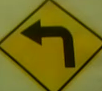
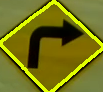
sign tracker working with comments

diff --git a/scripts/match_points.py b/scripts/match_points.py
@@ -1,7 +1,5 @@
 #!/usr/bin/env python
 
-""" A demo that shows how keypoint matches work using SIFT """
-
 import cv2
 import pickle
 import numpy as np
@@ -11,33 +9,76 @@ from scipy import stats
 class KeyPointMatcher(object):
 	""" KeyPointMatcher shows the basics of interest point detection,
 	    descriptor extraction, and descriptor matching in OpenCV """
-	def __init__(self, im1_file, robot_file):
+	def __init__(self, robot_file):
 		rospack = rospkg.RosPack()
-		self.im1_file = rospack.get_path('computer_vision') + '/images/' + im1_file
-		# self.im2_file = rospack.get_path('computer_vision') + '/images/' + robot_file
+
+		# loads the stock images for left, right and uturn signs 
+		self.left_turn = rospack.get_path('computer_vision') + '/images/left_turn_real.png'
+		self.right_turn = rospack.get_path('computer_vision') + '/images/right_turn_real.png'
+		self.u_turn = rospack.get_path('computer_vision') + '/images/uturn_real.png'
 
 		self.robot_file = robot_file
 		descriptor_name = "SIFT"
+
+		self.left_sum = 0
+		self.right_sum = 0
+		self.u_sum = 0
+
+		self.threshold_sum = 20
 
 		self.detector = cv2.FeatureDetector_create(descriptor_name)
 		self.extractor = cv2.DescriptorExtractor_create(descriptor_name)
 		self.matcher = cv2.BFMatcher()
 		self.im = None
 
-
 		self.corner_threshold = 0.01
 		self.ratio_threshold = .6
 
-	def compute_matches(self):
-		""" reads in two image files and computes possible matches between them using SIFT """
-		im1 = cv2.imread(self.im1_file)
-		# im2 = cv2.imread(self.im2_file)
+	def set_robot_file(self, robot_file):
+		""" Sets the image read from the neato's camera """
+		self.robot_file = robot_file
+
+	def compare_signs(self):
+		""" computes the running sum of each sign value """
+		left_turn = cv2.imread(self.left_turn)
+		right_turn = cv2.imread(self.right_turn)
+		u_turn = cv2.imread(self.u_turn)
+
+		self.left_sum += self.compute_matches(left_turn)
+		self.right_sum += self.compute_matches(right_turn)
+		self.u_sum += self.compute_matches(u_turn)
+
+		return self.determine_sign()
+
+	def determine_sign(self):
+		""" determines signs by looking at the running sum """
+
+		# since there are some errors when identifying with sift we take the running sum and 
+		# returns the sign that pass the threshold_sum the quickest
+		if self.left_sum > self.threshold_sum:
+			self.reset_sums()
+			return "left"
+		if self.right_sum > self.threshold_sum:
+			self.reset_sums()
+			return "right"
+		if self.u_sum > self.threshold_sum:
+			self.reset_sums()
+			return "u_turn"
+		return "None"
+
+	def reset_sums(self):
+		self.left_sum = 0
+		self.right_sum = 0
+		self.u_sum = 0
+
+	def compute_matches(self, im):
+		""" reads in a stock image file and the robot image and computes possible matches between them using SIFT """
 
 		im2 = self.robot_file
 
+		# resize the stock pictures to the robot image's size
 		height, width = im2.shape[:2]
-		im1 = cv2.resize(im1,(width, height), interpolation = cv2.INTER_CUBIC)
-
+		im1 = cv2.resize(im,(width, height), interpolation = cv2.INTER_CUBIC)
 
 		im1_bw = cv2.cvtColor(im1,cv2.COLOR_BGR2GRAY)
 		im2_bw = cv2.cvtColor(im2,cv2.COLOR_BGR2GRAY)
@@ -74,54 +115,12 @@ class KeyPointMatcher(object):
 			y1.append(pts1[i, 1])
 			y2.append(pts2[i, 1])
 
-		print "length", pts1.shape[0]
-
+		# use linear regression to determine how closely the two images match each other
 		slope1, intercept1, r_value1, p_value1, std_err1 = stats.linregress(x1,x2)
 		slope2, intercept2, r_value2, p_value2, std_err2 = stats.linregress(y1,y2)
 
-		return r_value1**2, r_value2**2
-		# print r_value1**2, r_value2**2
-
-		# self.im = np.array(np.hstack((im1,im2)))
-
-		# plot the points
-		for i in range(pts1.shape[0]):
-			cv2.circle(self.im,(int(pts1[i,0]),int(pts1[i,1])),2,(255,0,0),2)
-			cv2.circle(self.im,(int(pts2[i,0]+im1.shape[1]),int(pts2[i,1])),2,(255,0,0),2)
-			cv2.line(self.im,(int(pts1[i,0]),int(pts1[i,1])),(int(pts2[i,0]+im1.shape[1]),int(pts2[i,1])),(0,255,0))
-
-def set_corner_threshold(thresh):
-	""" Sets the threshold to consider an interest point a corner.  The higher the value
-		the more the point must look like a corner to be considered """
-	global matcher
-	matcher.corner_threshold = thresh/1000.0
-
-def set_ratio_threshold(ratio):
-	""" Sets the ratio of the nearest to the second nearest neighbor to consider the match a good one """
-	global matcher
-	matcher.ratio_threshold = ratio/100.0
-
-def mouse_event(event,x,y,flag,im):
-	""" Handles mouse events.  In this case when the user clicks, the matches are recomputed """
-	if event == cv2.EVENT_FLAG_LBUTTON:
-		matcher.compute_matches()
-
-if __name__ == '__main__':
-	# descriptor can be: SIFT, SURF, BRIEF, BRISK, ORB, FREAK
-
-	# matcher = KeyPointMatcher('left_turn.png', out,'SIFT')
-	matcher = KeyPointMatcher('right_turn_real.png', 'right_turn_check.png')
-
-	# setup a basic UI
-	cv2.namedWindow('UI')
-	cv2.createTrackbar('Corner Threshold', 'UI', 0, 100, set_corner_threshold)
-	cv2.createTrackbar('Ratio Threshold', 'UI', 100, 100, set_ratio_threshold)
-	matcher.compute_matches()
-
-	cv2.imshow("MYWIN",matcher.im)
-	cv2.setMouseCallback("MYWIN",mouse_event,matcher)
-
-	while True:
-		cv2.imshow("MYWIN",matcher.im)
-		cv2.waitKey(50)
-	cv2.destroyAllWindows()
+		# r^2 is a constant that represents the strength of the correlation
+		# return 1 for match when both of the r^2 value is greater and .95
+		if (r_value1**2 > .95 and r_value2**2 > .95):
+			return 1
+		return 0

diff --git a/scripts/tracker.py b/scripts/tracker.py
@@ -1,8 +1,5 @@
 #!/usr/bin/env python
 
-""" This is a script that walks through some of the basics of working with images
-    with opencv in ROS. """
-
 import rospy
 from sensor_msgs.msg import Image
 from copy import deepcopy
@@ -13,23 +10,31 @@ import cv2
 import numpy as np
 from geometry_msgs.msg import Twist, Vector3
 
-class Tracker(object):
-    """ The Tracker is a Python object that encompasses a ROS node 
-        that can process images from the camera and search for a ball within.
-        The node will issue motor commands to move forward while keeping
-        the ball in the center of the camera's field of view. """
+class SignTracker(object):
+    """ SignTracker can find a sign using sign_detector and determine if the sign is a left turn, 
+    right turn, or a u turn using a matcher. Then SignTracker can move accordingly depending oon the sign """
 
     def __init__(self, image_topic):
-        """ Initialize the ball tracker """
-        rospy.init_node('ball_tracker')
+        """ Initialize the sign tracker """
+        rospy.init_node('sign_tracker')
         self.cv_image = None                        # the latest image from the camera
         self.bridge = CvBridge()                    # used to convert ROS messages to OpenCV
+
+        # matcher needs to be created but since the cropped image is not yet available initialize the matcher with None
+        self.matcher = KeyPointMatcher(None)
 
         self.maxContour = 0
         self.maxCArea = 0
         self.cropped = 0
 
+        # counter to properly perform the turns for the correct period of time
+        self.counter = 0
+        self.counterMax = 63
+
+        self.receivedCommand = False
+
         self.signArea = 4500
+
         self.twist = Twist()
         self.twist.linear.x = .1
 
@@ -40,33 +45,59 @@ class Tracker(object):
 
 
     def process_image(self, msg):
-        """ Process image messages from ROS and stash them in an attribute
-            called cv_image for subsequent processing """
+        """ Process image messages from ROS and determine where the sign is and what kind of
+        sign it is  """
         self.cv_image = self.bridge.imgmsg_to_cv2(msg, desired_encoding="bgr8")
         self.sign_detector = SignDetector(self.cv_image)
 
         self.maxContour, self.maxCArea = self.sign_detector.contours_tracking()
-        print self.maxCArea
 
-        # cv2.drawContours(self.cv_image, [self.maxContour], -1, (0, 255, 225), 2)
-        self.found_sign = False
-        if self.check_sign() and  !self.found_sign:
+        # draws the contour on the sign
+        cv2.drawContours(self.cv_image, [self.maxContour], -1, (0, 255, 225), 2)
+        
+        if self.check_sign() and not self.receivedCommand:
+            
+            # when there is a sign, stop
             self.twist.linear.x = 0
-            self.found_sign = True
-            self.matcher = KeyPointMatcher("right_turn_real.png", self.cropped)
+            self.matcher.set_robot_file(self.cropped)
             cv2.imshow('cropped', self.cropped)
-            cv2.imwrite("/home/bumho/catkin_ws/src/comprobo15/computer_vision/images/uturn_check.png", self.cropped)
-            r1 ,r2 = self.matcher.compute_matches()
-            print r1, r2
-            if (r1 > .95 and r2 > .95):
-                print "turn right"
+            self.command = self.matcher.compare_signs()
+            self.make_move(self.command)
+            
+        elif self.receivedCommand:
+            self.counter += 1
+            
+            if self.counter > self.counterMax:
+                self.receivedCommand = False
+                self.twist.angular.z = 0
+                self.counter = 0
+        else:
+            self.twist.linear.x = 0.1
 
         cv2.imshow('video_window', self.cv_image)
         cv2.imshow('threshold_image', self.sign_detector.mask)
         
         cv2.waitKey(5)
 
+    def make_move(self, command):
+        """ control the robot depending on the command """
+        if self.command == "left":
+            self.receivedCommand = True
+            self.twist.angular.z = 1.0
+            self.twist.linear.x = .1
+        elif self.command == "right":
+            self.receivedCommand = True
+            self.twist.angular.z = -1.0
+            self.twist.linear.x = .1
+        elif self.command == "u_turn":
+            self.receivedCommand = True
+            self.twist.angular.z = -2.0
+            self.twist.linear.x = .1
+
     def validate_sign(self, cropped):
+        """ if the image that was determined to be a sign is not close being a square, 
+        then the sign is an invalid sign """
+        
         threshold = .9
         height, width = self.cropped.shape[:2]
         if height < width:
@@ -75,6 +106,8 @@ class Tracker(object):
             return height/width > threshold 
 
     def check_sign(self):
+        """ check the area of the sign to determine when to stop and validate the sign"""
+
         if self.maxCArea > self.signArea:
             self.cropped = self.sign_detector.crop_image()
             if(self.validate_sign(self.cropped)):
@@ -91,5 +124,5 @@ class Tracker(object):
 
 
 if __name__ == '__main__':
-    node = Tracker("/camera/image_raw")
+    node = SignTracker("/camera/image_raw")
     node.run()

diff --git a/scripts/sign_detector.py b/scripts/sign_detector.py
@@ -4,25 +4,31 @@ import rospy
 import numpy as np
 
 class SignDetector(object):
+	""" SignDetector looks at an image and finds the largest area of 'yellow color' and returns a cropped
+	image that only contains the sign """
 
 	def __init__(self, im):
 		self.im = im
 		hsv = cv2.cvtColor(self.im, cv2.COLOR_BGR2HSV)
-		# 15, 160, 100
-		# 50, 255, 255
-		lower_yellow = np.uint8([15, 162, 100])
-		upper_yellow = np.uint8([50, 255, 255])
+
+		# upper and lower hsv boundaries for yellow
+		lower_yellow = np.uint8([20, 209, 91])
+		upper_yellow = np.uint8([70, 255, 195])
 		self.mask = cv2.inRange(hsv, lower_yellow, upper_yellow)
+
 		self.center_x, self.center_y = 0, 0
 
 	def contours_tracking(self):
-		""" returns contours maxContour, and maxContour area"""
+		""" returns contours maxContour, and maxContour area """
+		
 		contours, hierarchy = cv2.findContours(self.mask.copy(), cv2.RETR_EXTERNAL, cv2.CHAIN_APPROX_SIMPLE)
 		maxCArea = 0
 		self.maxContour = 0
-		
+			
 		for c in contours:
 			m = cv2.moments(c)
+
+			# find the max contour area to locate the sign
 			if m['m00'] != 0:
 				if maxCArea < m['m00']:
 					maxCArea = m['m00']
@@ -31,6 +37,7 @@ class SignDetector(object):
 		return self.maxContour, maxCArea 
 	
 	def crop_image(self):
+		""" crop the image to only include the sign """
 		leftmost = tuple(self.maxContour[self.maxContour[:,:,0].argmin()][0])
 		rightmost = tuple(self.maxContour[self.maxContour[:,:,0].argmax()][0])
 		topmost = tuple(self.maxContour[self.maxContour[:,:,1].argmin()][0])

diff --git a/scripts/match_points_test.py b/scripts/match_points_test.py
@@ -111,7 +111,8 @@ if __name__ == '__main__':
 
 	# matcher = KeyPointMatcher('left_turn.png', out,'SIFT')
 	matcher = KeyPointMatcher('left_turn_real.png', 'right_turn_check.png')
-
+	matcher = KeyPointMatcher('uturn_real.png', 'u_turn_check.png')
+	
 	# setup a basic UI
 	cv2.namedWindow('UI')
 	cv2.createTrackbar('Corner Threshold', 'UI', 0, 100, set_corner_threshold)
